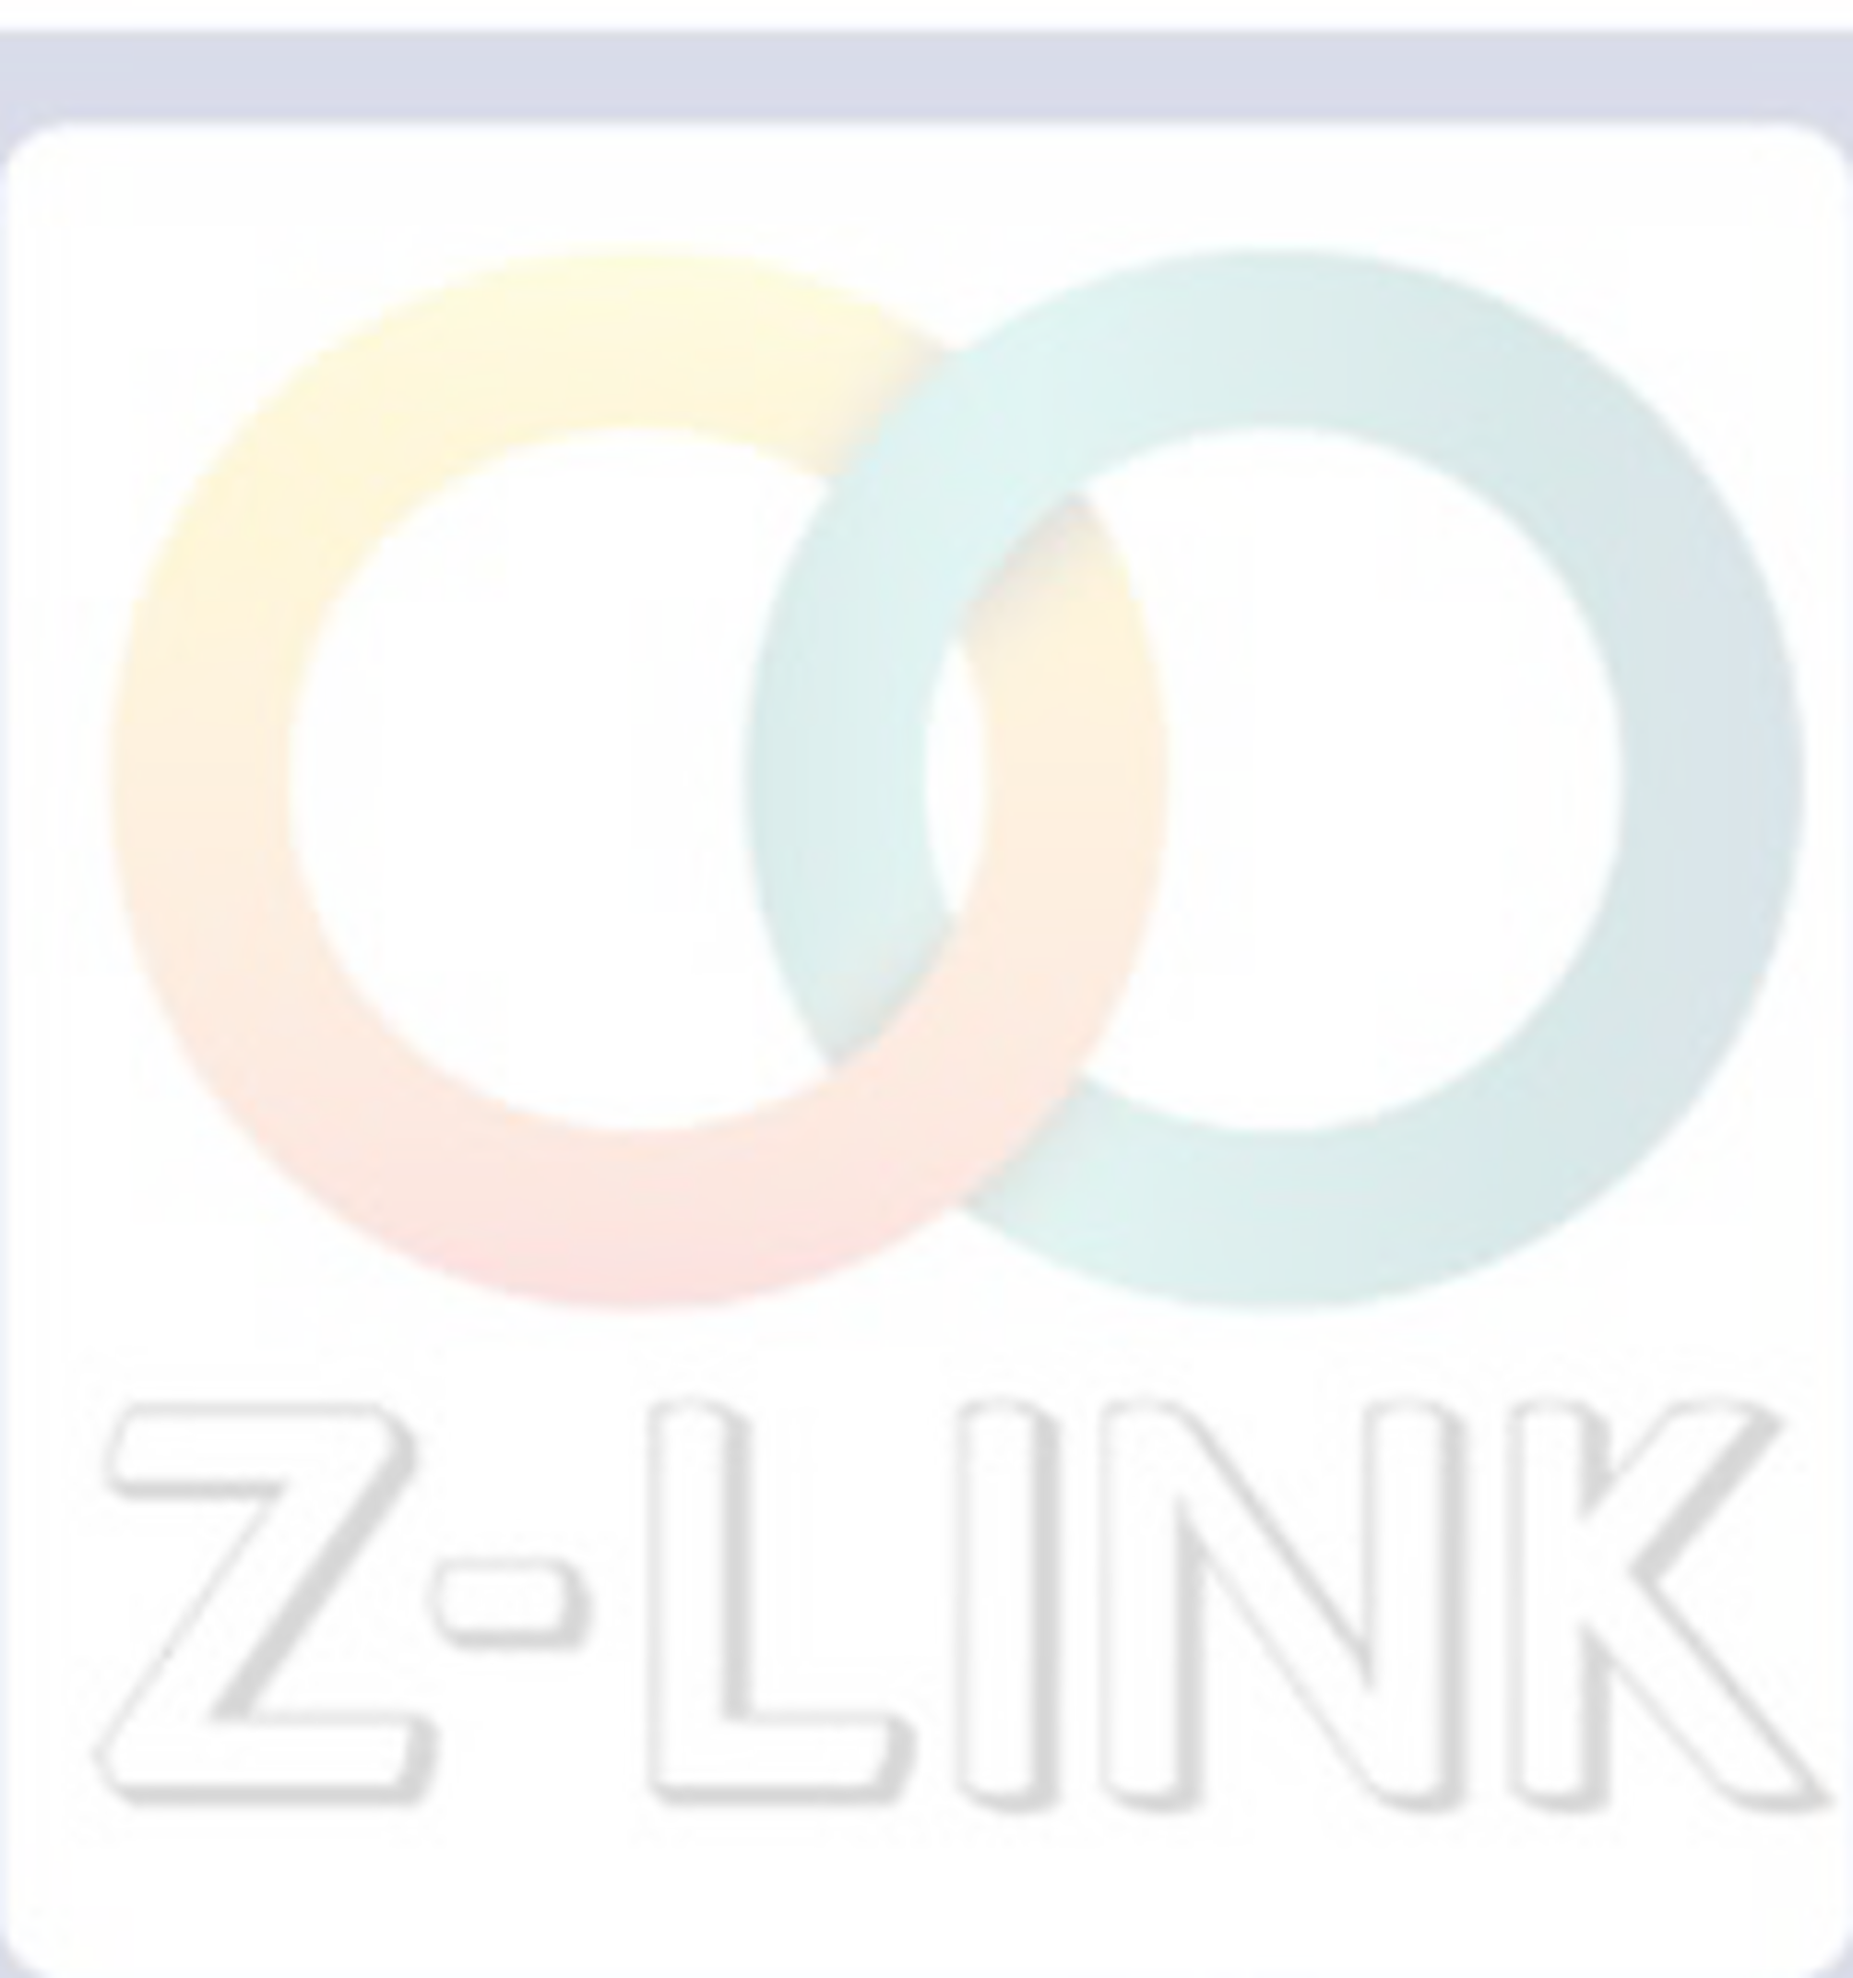
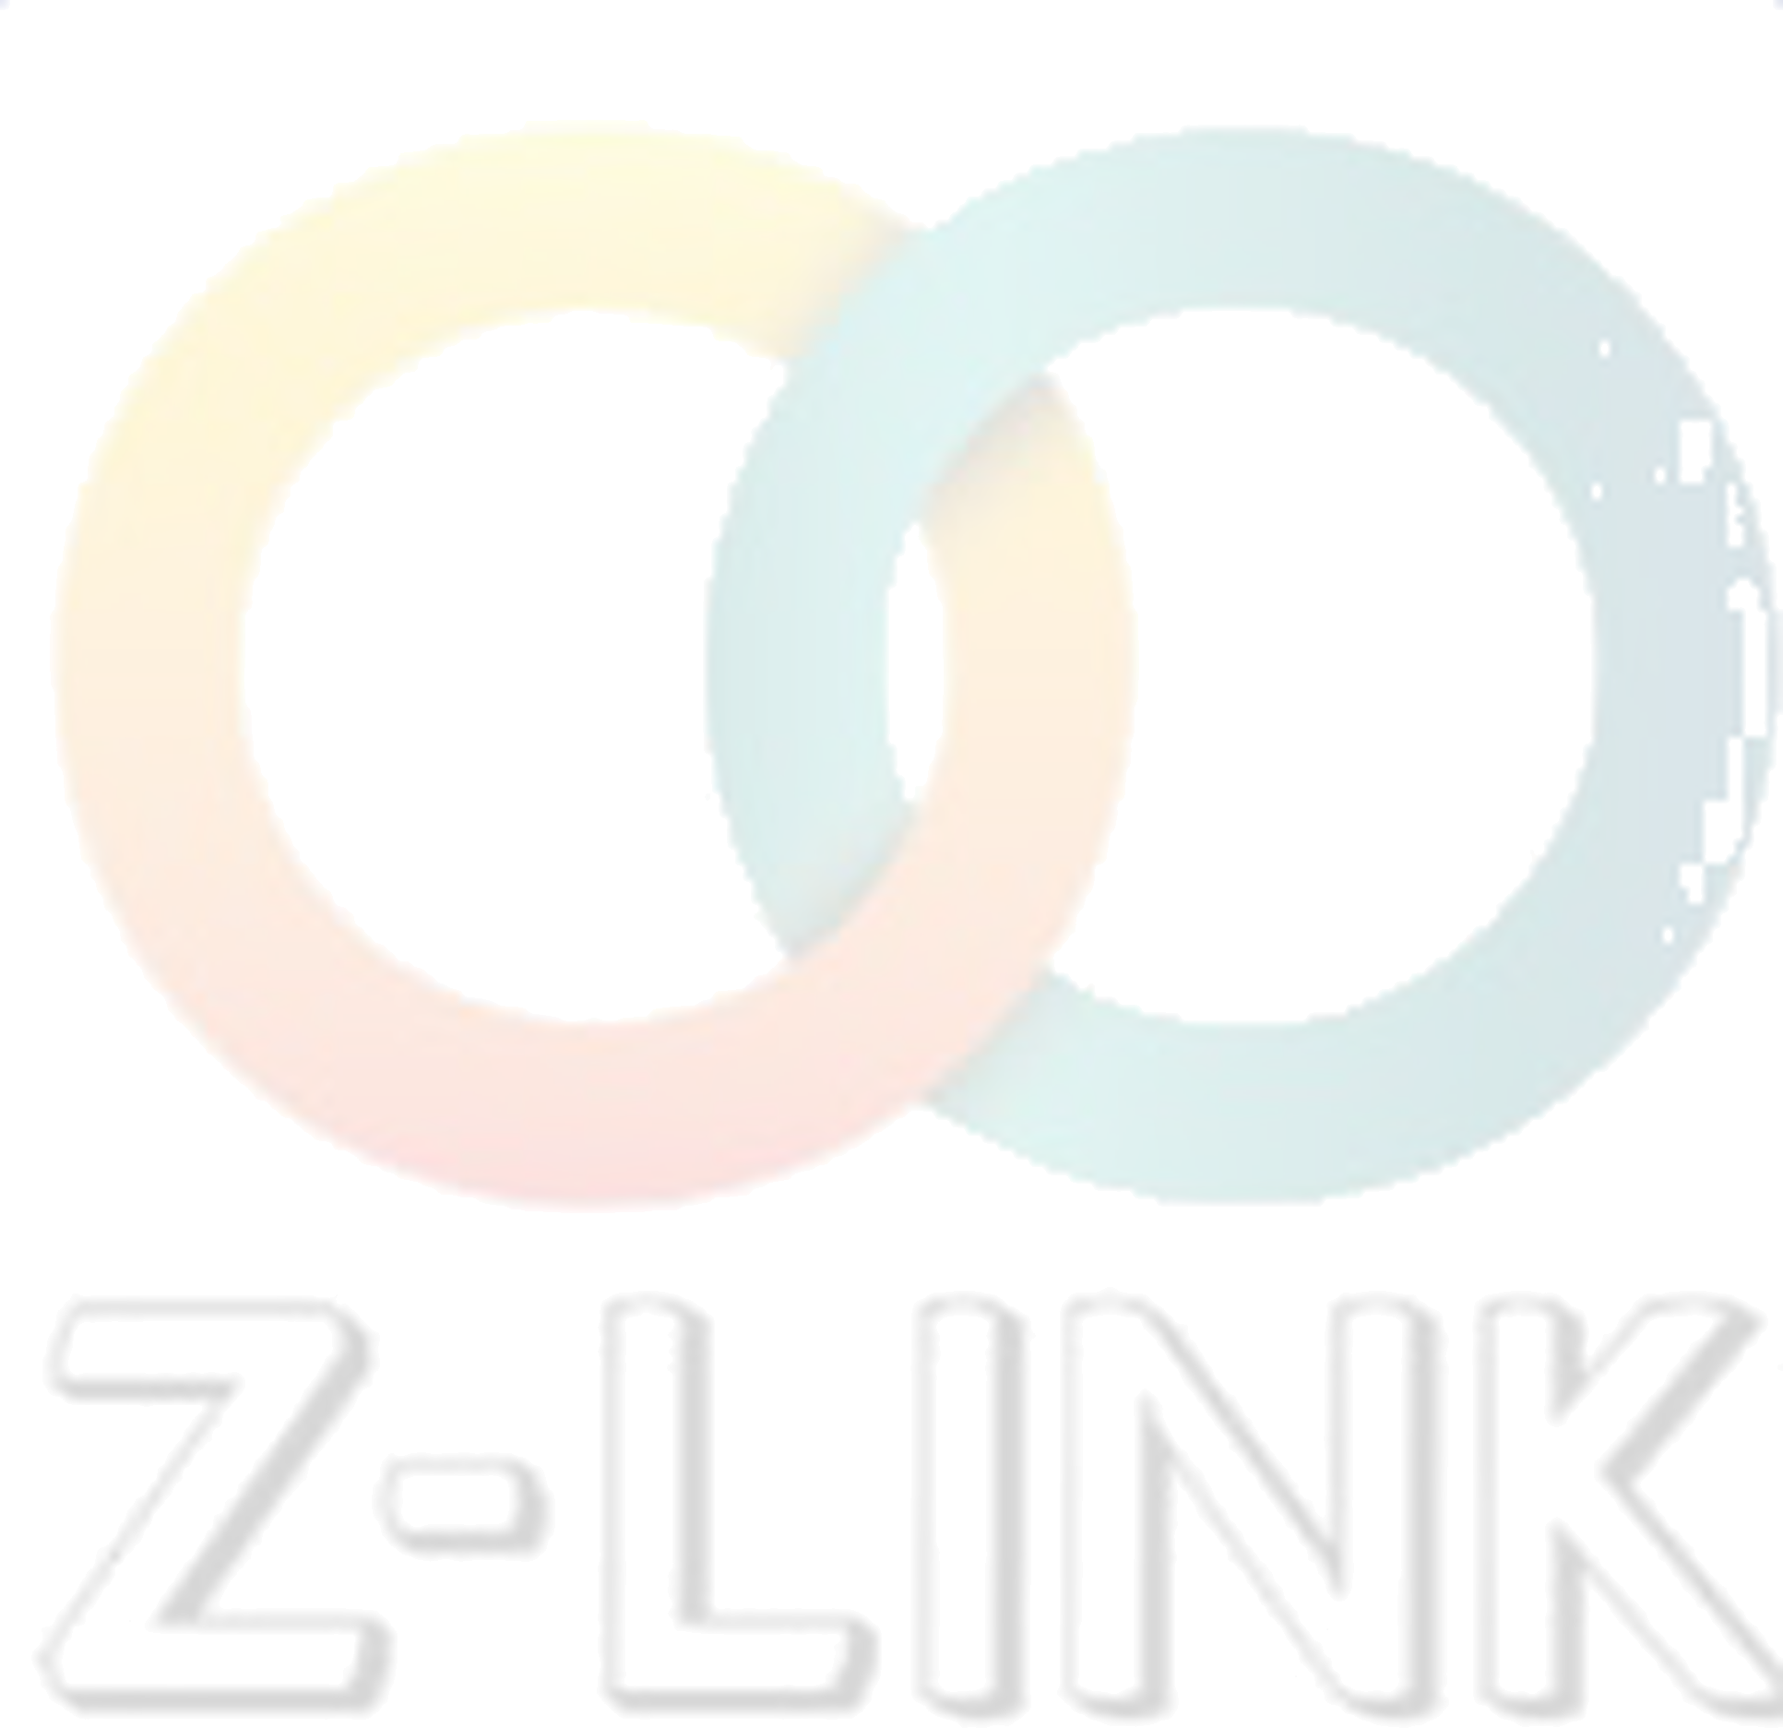
Fix watermark: remove navy wash, correct size and position
The watermark was cut from the banner's white logo box and kept the box border.
Faded to 16% that navy residue became a #D9DCEA blue-grey wash that read as a
tinted rectangle behind the top boxes.

- logo trimmed clear of the box and its border; zero blue-cast pixels remain
- footprint corrected to the measured 163.7 mm wide (77.9% of page), vertical
  centre 48.9% of page height, replacing the assumed 81% / 52.5%
- height now follows the logo's own 0.969 aspect so it is never stretched

Verified: wash across the top-box band is 1.34%, matching the genuine
document's 1.32%, down from 17.29%.

Claude-Session: https://claude.ai/code/session_01M9cPgN5ELERUaGh95sgEJD

diff --git a/document-system/zlink_doc.py b/document-system/zlink_doc.py
@@ -43,8 +43,14 @@ assert abs(sum(ITEM_COLS) - USABLE) < 0.2, sum(ITEM_COLS)
 
 BANNER_W = PAGE_W                      # full bleed
 BANNER_H = 28.96
-WM_W = PAGE_W * 0.81                   # 170.1 mm
-WM_H = 181.5
+# Watermark footprint measured off the genuine proforma: the logo spans
+# 163.7 mm (77.9% of page width) with its vertical centre at 48.9% of page
+# height. Height follows the logo's own aspect so the artwork is never stretched.
+WM_W = 163.7
+WM_CENTRE_Y = PAGE_H * 0.489
+from PIL import Image as _PILImage
+_w, _h = _PILImage.open(f'{ART}/watermark.png').size
+WM_H = WM_W * _h / _w
 STRAP_W = 139.4                        # ink measures 64.2% of page width
 EMU_MM = 36000
 
@@ -108,7 +114,7 @@ def new_document(doc_ref, show_page_numbers=True):
     # ---- watermark: anchored to the page, behind all content ----
     wr = hp.add_run()
     wr.add_picture(WATERMARK, width=Mm(WM_W), height=Mm(WM_H))
-    _float_behind(wr, (PAGE_W - WM_W) / 2.0, PAGE_H * 0.525 - WM_H / 2.0,
+    _float_behind(wr, (PAGE_W - WM_W) / 2.0, WM_CENTRE_Y - WM_H / 2.0,
                   'Z-Link watermark')
 
     # ---- footer: reference line over the strapline artwork ----

diff --git a/document-system/TEMPLATE-SPEC.md b/document-system/TEMPLATE-SPEC.md
@@ -17,7 +17,7 @@ no banner, no strapline, no watermark.
 |---|---|---|
 | A1 | **Header** | Navy bilingual banner artwork, company name EN/AR, logo, address, TRN, contact strip. Placed **full bleed** to the page edges at full page width, **0.8 mm** from the top edge. Repeats on every page. |
 | A2 | **Ruler (A4)** | Page 210 × 297 mm. Side margins **10 mm**, top **34 mm**, bottom **19.8 mm**, footer **5.3 mm** from the foot, header 0.8 mm. Text block **190 mm**. |
-| A3 | **Watermark** | The full Z-Link logo (coloured rings and Z-LINK wordmark as one unit) at **81% of page width**, horizontally centred, vertical centre at **52.5%** of page height, faded to **16%** opacity over white, behind all content. Repeats on every page. |
+| A3 | **Watermark** | The full Z-Link logo (coloured rings and Z-LINK wordmark as one unit) at **163.7 mm wide = 77.9% of page width**, horizontally centred, **vertical centre at 48.9% of page height** (top 65.9 mm, bottom 224.5 mm), faded to **16%** opacity over white, behind all content. Height follows the logo's own aspect (0.969 h/w) — the artwork is never stretched. Repeats on every page. The logo must be trimmed clear of the banner's white box and its border: any navy residue fades to a `#D9DCEA` blue-grey wash that reads as a tinted rectangle behind the top boxes. Test: pixels in the 205–249 luminance band across the top-box band (y 35–76 mm) must be about **1.3%**, as on the genuine document, not 17%. |
 | A4 | **Footer** | Strapline artwork "TECHNICAL BRILLIANCE / ENGINEERED EXCELLENCE / PROVEN EXPERTISE" over "DUBAI LICENSED CONTRACTOR #1245333 \| COMMERCIAL REGISTER: 2098971", set at **64% of page width**, centred. Repeats on every page. |
 | A5 | **Footer reference line** | Document reference, company legal name and **Page X of Y** in small grey type on the line immediately above the strapline. |
 | A6 | **No solid fills** | **No solid fills anywhere between the margins**, so the watermark reads unbroken. Section headings are navy bold text with a thin navy rule beneath, never a filled band. Table header rows are navy bold text on white with **borders only**. All body cells transparent, borders only. |
